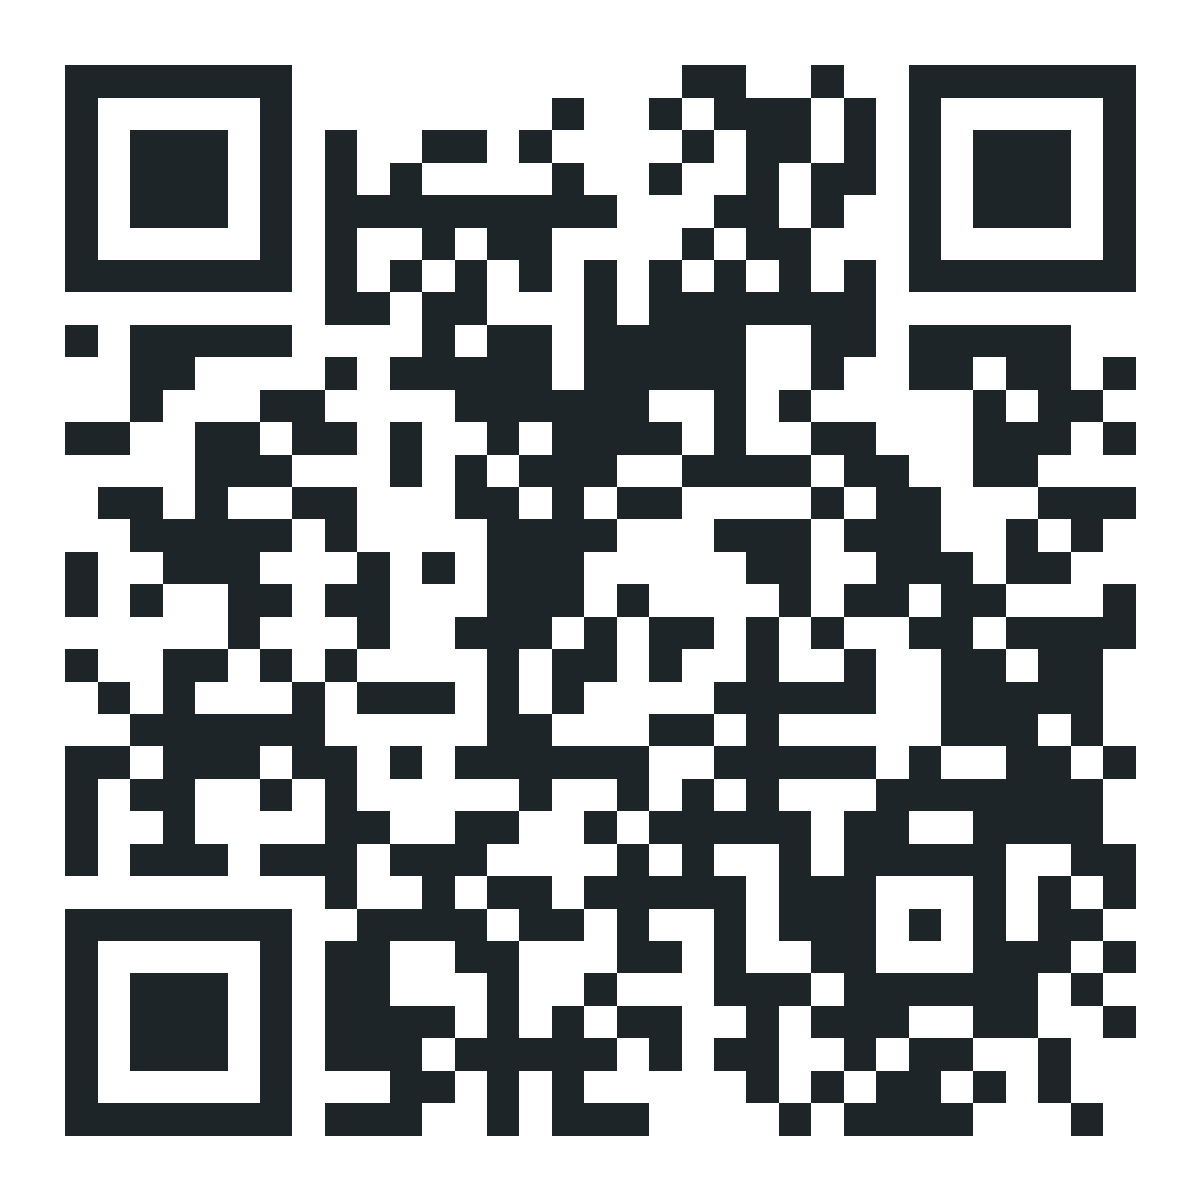
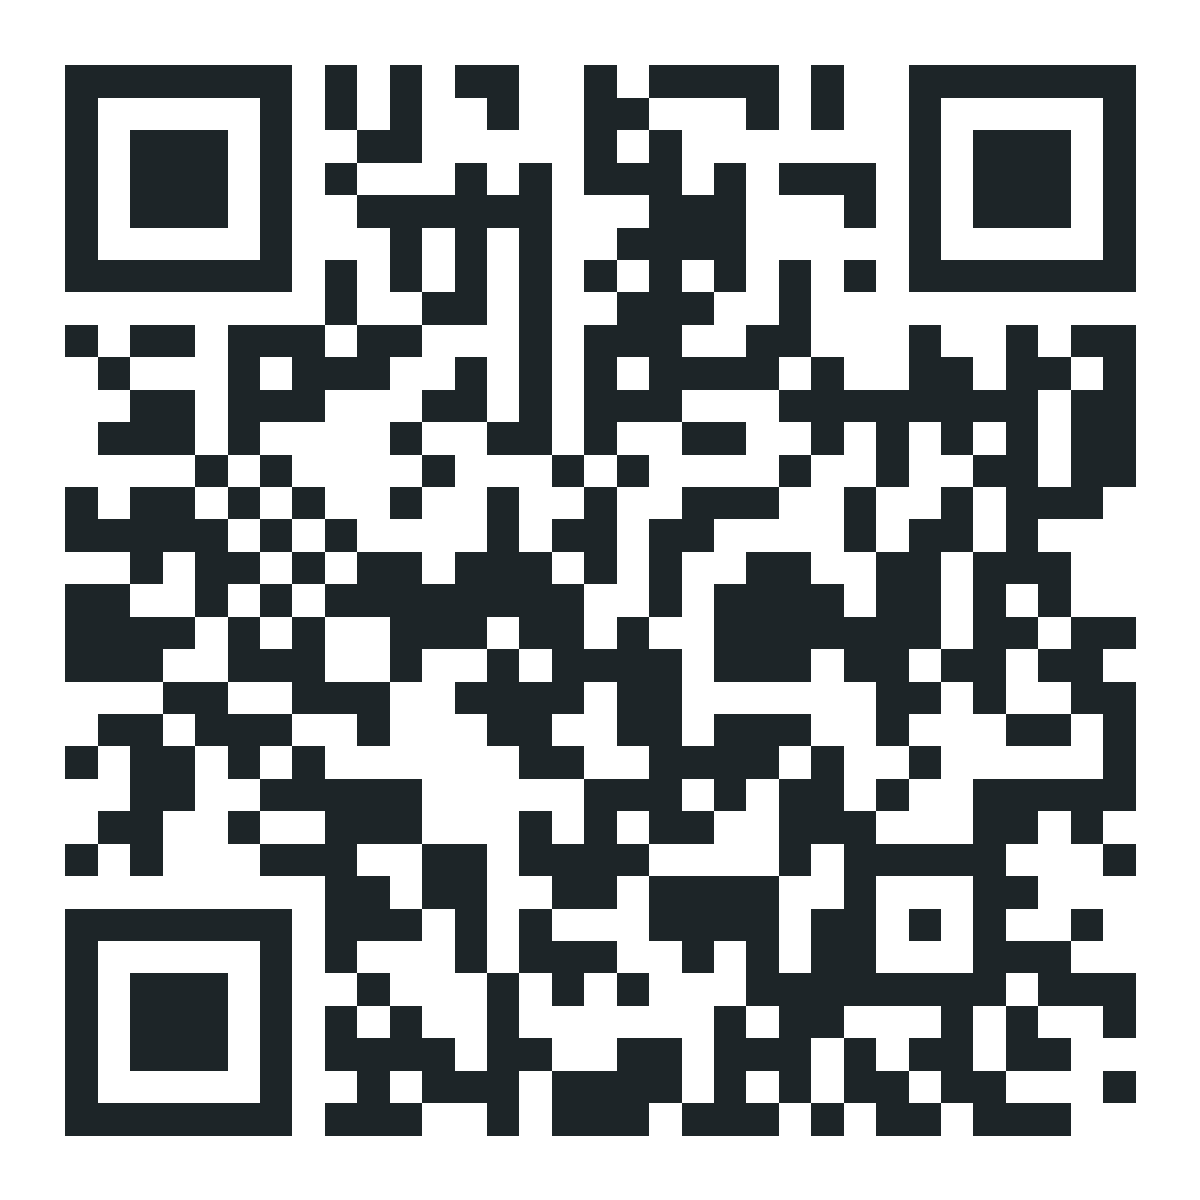
Nouvelle adresse et nouvelles couleurs des circuits
- Site renommé : https://marche-des-ecoles-saint-nizerote.vercel.app
  (l'ancienne adresse redirige vers la nouvelle), QR codes régénérés
- Couleurs : 5 km vert, 10 km bleu, 14 km jaune, 18 km gris clair, VTT rouge
- Couleurs claires lisibles : liseré foncé sur la carte, texte foncé sur
  les pastilles, variante plus soutenue pour les traits fins

Changed region(s): [[0.0308, 0.0308, 0.9558, 0.9558], [0.4317, 0.555, 0.4625, 0.6167]]

diff --git a/src/styles.css b/src/styles.css
@@ -54,7 +54,7 @@ a { color: inherit; }
 .leaflet-tooltip-top.start-label::before { border-top-color: var(--ink); }
 .km-marker span {
   display: grid; place-items: center; width: 24px; height: 24px; border-radius: 50%;
-  background: #fff; border: 2.5px solid var(--c); color: var(--ink);
+  background: var(--c); border: 2px solid var(--c-casing); color: var(--c-ink);
   font: 800 11px/1 var(--font); box-shadow: 0 1px 4px rgba(0, 0, 0, .25);
 }
 .route-arrow span { display: block; width: 20px; height: 20px; transform: rotate(var(--r)); filter: drop-shadow(0 1px 2px rgba(0, 0, 0, .3)); }
@@ -77,9 +77,9 @@ a { color: inherit; }
   border: 1px solid var(--line); border-radius: 999px; background: var(--surface); color: var(--ink);
   font: 700 .9rem/1 var(--font); cursor: pointer;
 }
-.chip i { width: 10px; height: 10px; border-radius: 50%; background: var(--c); }
+.chip i { width: 11px; height: 11px; border-radius: 50%; background: var(--c); box-shadow: inset 0 0 0 1px rgba(0, 0, 0, .2); }
 .chip[aria-pressed="true"] { border-color: var(--ink); background: var(--ink); color: #fff; }
-.chip[aria-pressed="true"] i { box-shadow: 0 0 0 2px #fff; }
+.chip[aria-pressed="true"] i { box-shadow: 0 0 0 2px #fff, inset 0 0 0 1px rgba(0, 0, 0, .2); }
 @media (max-width: 559px) {
   /* Tous les circuits visibles d'un coup, sans défilement horizontal */
   .chips { display: grid; grid-template-columns: repeat(3, minmax(0, 1fr)); }
@@ -98,7 +98,7 @@ a { color: inherit; }
 .cc-label { font-size: 1.45rem; font-weight: 800; letter-spacing: -.02em; }
 .cc-kind { font-size: .78rem; font-weight: 700; letter-spacing: .06em; text-transform: uppercase; color: var(--muted); }
 .cc-sub { display: block; margin: 2px 0 0; font-size: .92rem; color: var(--muted); }
-.spark { display: block; width: 100%; height: 40px; margin: 10px 0 8px; color: var(--c); }
+.spark { display: block; width: 100%; height: 40px; margin: 10px 0 8px; color: var(--c-line); }
 .cc-stats { display: flex; flex-wrap: wrap; gap: 4px 16px; margin: 0; padding: 0; list-style: none; font-size: .92rem; color: var(--muted); }
 .cc-stats b { color: var(--ink); font-variant-numeric: tabular-nums; }
 .cc-go { position: absolute; top: 50%; right: 14px; transform: translateY(-50%); color: var(--muted); }
@@ -122,12 +122,12 @@ a { color: inherit; }
 /* Mobile : les circuits sur leur propre ligne, en boutons de même largeur, tous visibles */
 .topnav { display: grid; flex-basis: 100%; grid-auto-flow: column; grid-auto-columns: minmax(0, 1fr); gap: 6px; }
 .topnav a { padding: 7px 4px; border: 1px solid var(--line); border-radius: 999px; background: var(--surface); font-size: .85rem; font-weight: 700; text-align: center; white-space: nowrap; text-decoration: none; }
-.topnav a[aria-current="page"] { border-color: var(--c); background: var(--c); color: #fff; }
+.topnav a[aria-current="page"] { border-color: var(--c-line); background: var(--c); color: var(--c-ink); }
 
 .circuit-page { display: grid; grid-template-columns: minmax(0, 1fr); gap: 14px; padding-block: 14px 32px; grid-template-areas: "title" "map" "actions" "details"; }
 .c-title { grid-area: title; display: flex; flex-wrap: wrap; align-items: center; gap: 6px 10px; }
 .c-title h1 { margin: 0; font-size: clamp(1.6rem, 5.5vw, 2.2rem); font-weight: 800; letter-spacing: -.025em; }
-.c-title .dot { width: 14px; height: 14px; border-radius: 50%; background: var(--c); box-shadow: 0 0 0 3px #fff, 0 0 0 4px var(--line); }
+.c-title .dot { width: 14px; height: 14px; border-radius: 50%; background: var(--c); box-shadow: inset 0 0 0 1px rgba(0, 0, 0, .2), 0 0 0 3px #fff, 0 0 0 4px var(--line); }
 .pill { padding: 4px 10px; border: 1px solid var(--line); border-radius: 999px; background: var(--surface); font-size: .78rem; font-weight: 700; color: var(--muted); }
 .c-sub { flex-basis: 100%; margin: 0; color: var(--muted); }
 .map-wrap { grid-area: map; position: relative; }
@@ -146,7 +146,7 @@ a { color: inherit; }
 .profile-box text { font: 11px var(--font); fill: var(--muted); font-variant-numeric: tabular-nums; }
 .profile-box .pg { stroke: var(--line); stroke-width: 1; }
 .profile-box .hover line { stroke: var(--ink); stroke-width: 1; stroke-dasharray: 3 3; }
-.profile-box .hover circle { fill: var(--c); stroke: #fff; stroke-width: 2; }
+.profile-box .hover circle { fill: var(--c-line); stroke: #fff; stroke-width: 2; }
 .profile-box .hover rect { fill: var(--ink); }
 .profile-box .hover text { fill: #fff; font-weight: 700; }
 .profile-box .you line { stroke: var(--you); stroke-width: 2; }

diff --git a/src/circuit.js b/src/circuit.js
@@ -12,7 +12,7 @@
   const ICON = {
     fit: '<svg viewBox="0 0 24 24" fill="none" stroke="currentColor" stroke-width="2.2" stroke-linecap="round" stroke-linejoin="round" aria-hidden="true"><path d="M4 9V4h5M20 9V4h-5M4 15v5h5M20 15v5h-5"/></svg>',
     locate: '<svg viewBox="0 0 24 24" fill="none" stroke="currentColor" stroke-width="2.2" stroke-linecap="round" aria-hidden="true"><circle cx="12" cy="12" r="4"/><path d="M12 2v3M12 19v3M2 12h3M19 12h3"/></svg>',
-    arrow: '<svg viewBox="0 0 20 20" aria-hidden="true"><circle cx="10" cy="10" r="9" style="fill:var(--c)" stroke="#fff" stroke-width="2"/><path d="M10 5 14.5 13h-9z" fill="#fff"/></svg>'
+    arrow: '<svg viewBox="0 0 20 20" aria-hidden="true"><circle cx="10" cy="10" r="9" style="fill:var(--c);stroke:var(--c-casing)" stroke-width="2"/><path d="M10 5 14.5 13h-9z" style="fill:var(--c-ink)"/></svg>'
   };
 
   // État du suivi de position
@@ -23,7 +23,7 @@
   const map = MarcheMap.createMap('map');
   // Calque au-dessus des bornes kilométriques : position de la personne et repère du profil
   map.createPane('focus').style.zIndex = 640;
-  const route = MarcheMap.drawRoute(latlngs, C.color, 6).addTo(map);
+  const route = MarcheMap.drawRoute(latlngs, C.color, 6, C.casing).addTo(map);
   const fitRoute = () => map.fitBounds(route.getBounds(), { padding: [28, 28] });
   fitRoute();
   MarcheMap.labelMarker(latlngs[0], C.loop ? 'Départ / arrivée' : 'Départ').addTo(map);
@@ -138,7 +138,7 @@
     let W = 0, svg = null, youAt = null;
     const X = d => padL + (d / total) * (W - padL - padR);
     const Y = e => padT + (1 - (e - lo) / (hi - lo)) * (H - padT - padB);
-    const hoverMarker = L.circleMarker([0, 0], { pane: 'focus', radius: 7, color: '#fff', weight: 3, fillColor: C.color, fillOpacity: 1, interactive: false });
+    const hoverMarker = L.circleMarker([0, 0], { pane: 'focus', radius: 7, color: C.casing, weight: 3, fillColor: C.color, fillOpacity: 1, interactive: false });
 
     function draw() {
       const w = Math.round(host.clientWidth);
@@ -164,8 +164,8 @@
       host.innerHTML =
         '<svg width="' + W + '" height="' + H + '" viewBox="0 0 ' + W + ' ' + H + '" role="img" aria-label="Profil altimétrique : altitude de ' + Math.round(eMin) + ' à ' + Math.round(eMax) + ' mètres">' +
         '<g>' + grid + '</g>' +
-        '<path d="' + area + '" fill="' + C.color + '" fill-opacity="0.14"/>' +
-        '<path d="' + line + '" fill="none" stroke="' + C.color + '" stroke-width="2" stroke-linejoin="round"/>' +
+        '<path d="' + area + '" fill="' + C.line + '" fill-opacity="0.14"/>' +
+        '<path d="' + line + '" fill="none" stroke="' + C.line + '" stroke-width="2" stroke-linejoin="round"/>' +
         '<g class="you" style="display:none"><line y1="' + padT + '" y2="' + base + '"/><circle r="5"/></g>' +
         '<g class="hover" style="display:none"><line y1="' + padT + '" y2="' + base + '"/><circle r="4.5"/><rect rx="6" y="4" height="22"/><text y="19" text-anchor="middle"></text></g>' +
         '</svg>';

diff --git a/src/map.js b/src/map.js
@@ -29,9 +29,9 @@ window.MarcheMap = (function () {
     return map;
   }
 
-  // Tracé avec liseré blanc (lisible sur tous les fonds) + zone de clic élargie pour le doigt
-  function drawRoute(latlngs, color, weight) {
-    const casing = L.polyline(latlngs, { color: '#fff', weight: weight + 4, opacity: 0.95, lineJoin: 'round', lineCap: 'round', interactive: false });
+  // Tracé avec liseré (blanc, ou foncé pour une couleur claire) + zone de clic élargie pour le doigt
+  function drawRoute(latlngs, color, weight, casingColor) {
+    const casing = L.polyline(latlngs, { color: casingColor || '#fff', weight: weight + 4, opacity: 0.95, lineJoin: 'round', lineCap: 'round', interactive: false });
     const line = L.polyline(latlngs, { color: color, weight: weight, opacity: 1, lineJoin: 'round', lineCap: 'round', interactive: false });
     const hit = L.polyline(latlngs, { color: color, weight: 22, opacity: 0 });
     const group = L.featureGroup([casing, line, hit]);

diff --git a/src/home.js b/src/home.js
@@ -10,7 +10,7 @@
   // Les circuits longs d'abord : les plus courts restent visibles par-dessus
   const drawOrder = D.circuits.slice().reverse();
   drawOrder.forEach(function (c) {
-    const g = MarcheMap.drawRoute(c.points, c.color, 4).addTo(all);
+    const g = MarcheMap.drawRoute(c.points, c.color, 4, c.casing).addTo(all);
     g.hit.bindPopup('<strong>Circuit ' + c.label + '</strong><br><a href="/' + c.id + '">Voir le circuit →</a>');
     routes[c.id] = g;
   });

diff --git a/README.md b/README.md
@@ -2,18 +2,18 @@
 
 Site des circuits de la marche solidaire organisée par l'APEL au profit de l'école : carte de chaque circuit, suivi de sa position sur téléphone et fichiers GPX à télécharger **sans compte ni application** (montre, compteur vélo, appli GPS).
 
-- Site : https://marche-apel-st-nizier.vercel.app
-- Affiche imprimable avec les QR codes : https://marche-apel-st-nizier.vercel.app/affiche
+- Site : https://marche-des-ecoles-saint-nizerote.vercel.app
+- Affiche imprimable avec les QR codes : https://marche-des-ecoles-saint-nizerote.vercel.app/affiche
 
 ## Les circuits
 
 | Circuit | Page | Distance | Dénivelé + |
 |---|---|---|---|
-| 5 km poussettes | [/5km](https://marche-apel-st-nizier.vercel.app/5km) | 5,0 km | 83 m |
-| 10 km | [/10km](https://marche-apel-st-nizier.vercel.app/10km) | 10,2 km | 223 m |
-| 14 km | [/14km](https://marche-apel-st-nizier.vercel.app/14km) | 14,6 km | 257 m |
-| 18 km | [/18km](https://marche-apel-st-nizier.vercel.app/18km) | 18,4 km | 328 m |
-| VTT | [/vtt](https://marche-apel-st-nizier.vercel.app/vtt) | 22,2 km | 497 m |
+| 5 km poussettes | [/5km](https://marche-des-ecoles-saint-nizerote.vercel.app/5km) | 5,0 km | 83 m |
+| 10 km | [/10km](https://marche-des-ecoles-saint-nizerote.vercel.app/10km) | 10,2 km | 223 m |
+| 14 km | [/14km](https://marche-des-ecoles-saint-nizerote.vercel.app/14km) | 14,6 km | 257 m |
+| 18 km | [/18km](https://marche-des-ecoles-saint-nizerote.vercel.app/18km) | 18,4 km | 328 m |
+| VTT | [/vtt](https://marche-des-ecoles-saint-nizerote.vercel.app/vtt) | 22,2 km | 497 m |
 
 Tous les circuits partent du 111 rue de la République et y reviennent. La trace VTT d'origine démarrait à 2,4 km de là ; comme la boucle passait déjà par ce point, elle a seulement été redémarrée à cet endroit (même tracé, même sens).
 
@@ -53,7 +53,7 @@ npm run build
 npm run serve
 python tests/check_site.py
 
-# 4. Publier (la première fois sur un nouvel ordinateur : vercel link --project marche-apel-st-nizier)
+# 4. Publier (la première fois sur un nouvel ordinateur : vercel link --project marche-des-ecoles-saint-nizerote)
 cd public
 vercel deploy --prod
 ```
